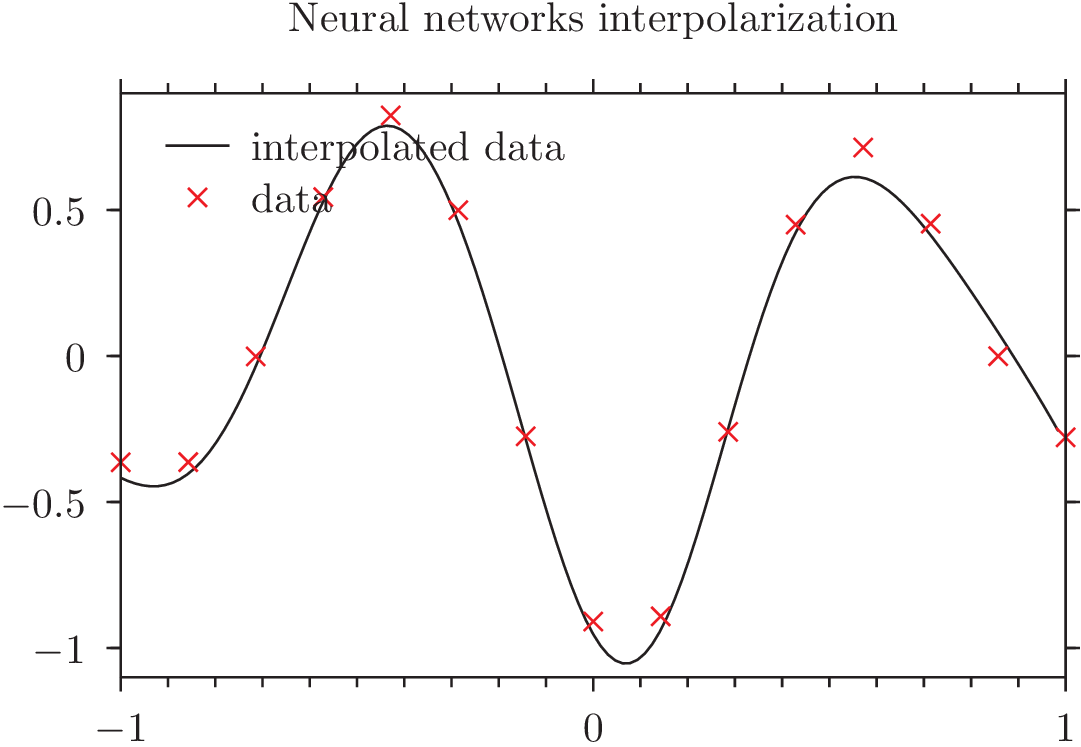
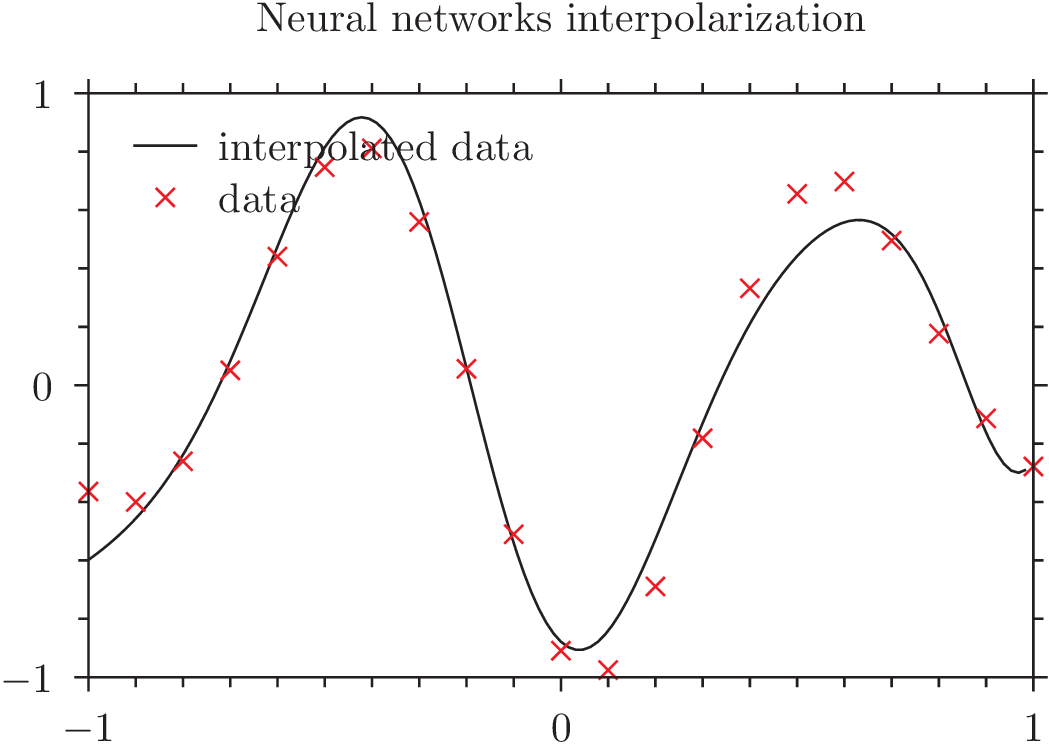
looking through the exercises, reached 02

diff --git a/homework/neural_network/main.c b/homework/neural_network/main.c
@@ -72,7 +72,7 @@ void ann_train(ann* list, gsl_vector* input, gsl_vector* output){
 	gsl_vector* p = gsl_vector_alloc(N);
 	gsl_vector_memcpy(p,list->params);
 //	Cost(p);
-	quasinewton(Cost,p,1e-4,10000);
+	quasinewton(Cost,p,1e-4,1000);
 	gsl_vector_memcpy(list->params,p);
 	gsl_vector_free(p);
 	
@@ -80,10 +80,10 @@ void ann_train(ann* list, gsl_vector* input, gsl_vector* output){
 	
 
 int main(){	
-	int M = 15;
+	int N = 7;
+	int M = 3*N;
 	input = gsl_vector_alloc(M);
 	output = gsl_vector_alloc(M);
-	int N = 5;
 	network = ann_alloc(N,activation_function);
 	double a0 = -1, aN = 1;
 
@@ -101,16 +101,9 @@ int main(){
 		gsl_vector_set(network->params,1 * I ,a0 + (aN -a0)*I/(network->n-1));
 		gsl_vector_set(network->params,3 * I + 1,I);
 		gsl_vector_set(network->params,3 * I + 2,I);
-	//	fprintf(stderr,"parameter set %g \n",gsl_vector_get(network->params,3*I));
-	//	fprintf(stderr,"parameter set %g \n",gsl_vector_get(network->params,3*I+1));
-	//	fprintf(stderr,"parameter set %g \n",gsl_vector_get(network->params,3*I+2));
-	//	fprintf(stderr,"next set of paramters\n");
 	}
-	ann_train(network,input,output);
-//	show_vector(network->params);
-	//gsl_vector_memcpy(p,list->params);
+	ann_train(network,input, output);
 	FILE* DATA =  fopen("output.txt","w");
-//	FILE* DATAa =  fopen("output.txt","a");
 	fprintf(DATA,"# - data\n");
 	for(double i =a0;i<aN;i+=1.0/64){ 
 		double predicted_output = ann_response(network, i);
@@ -121,9 +114,7 @@ int main(){
 		fprintf(DATA,"%g %g\n",gsl_vector_get(input,i),gsl_vector_get(output,i));		
 	}
 	fclose(DATA);
-//	ann_free(network);
-	
-	
+	ann_free(network);
 	gsl_vector_free(input);
 	gsl_vector_free(output);
 	return 0;
